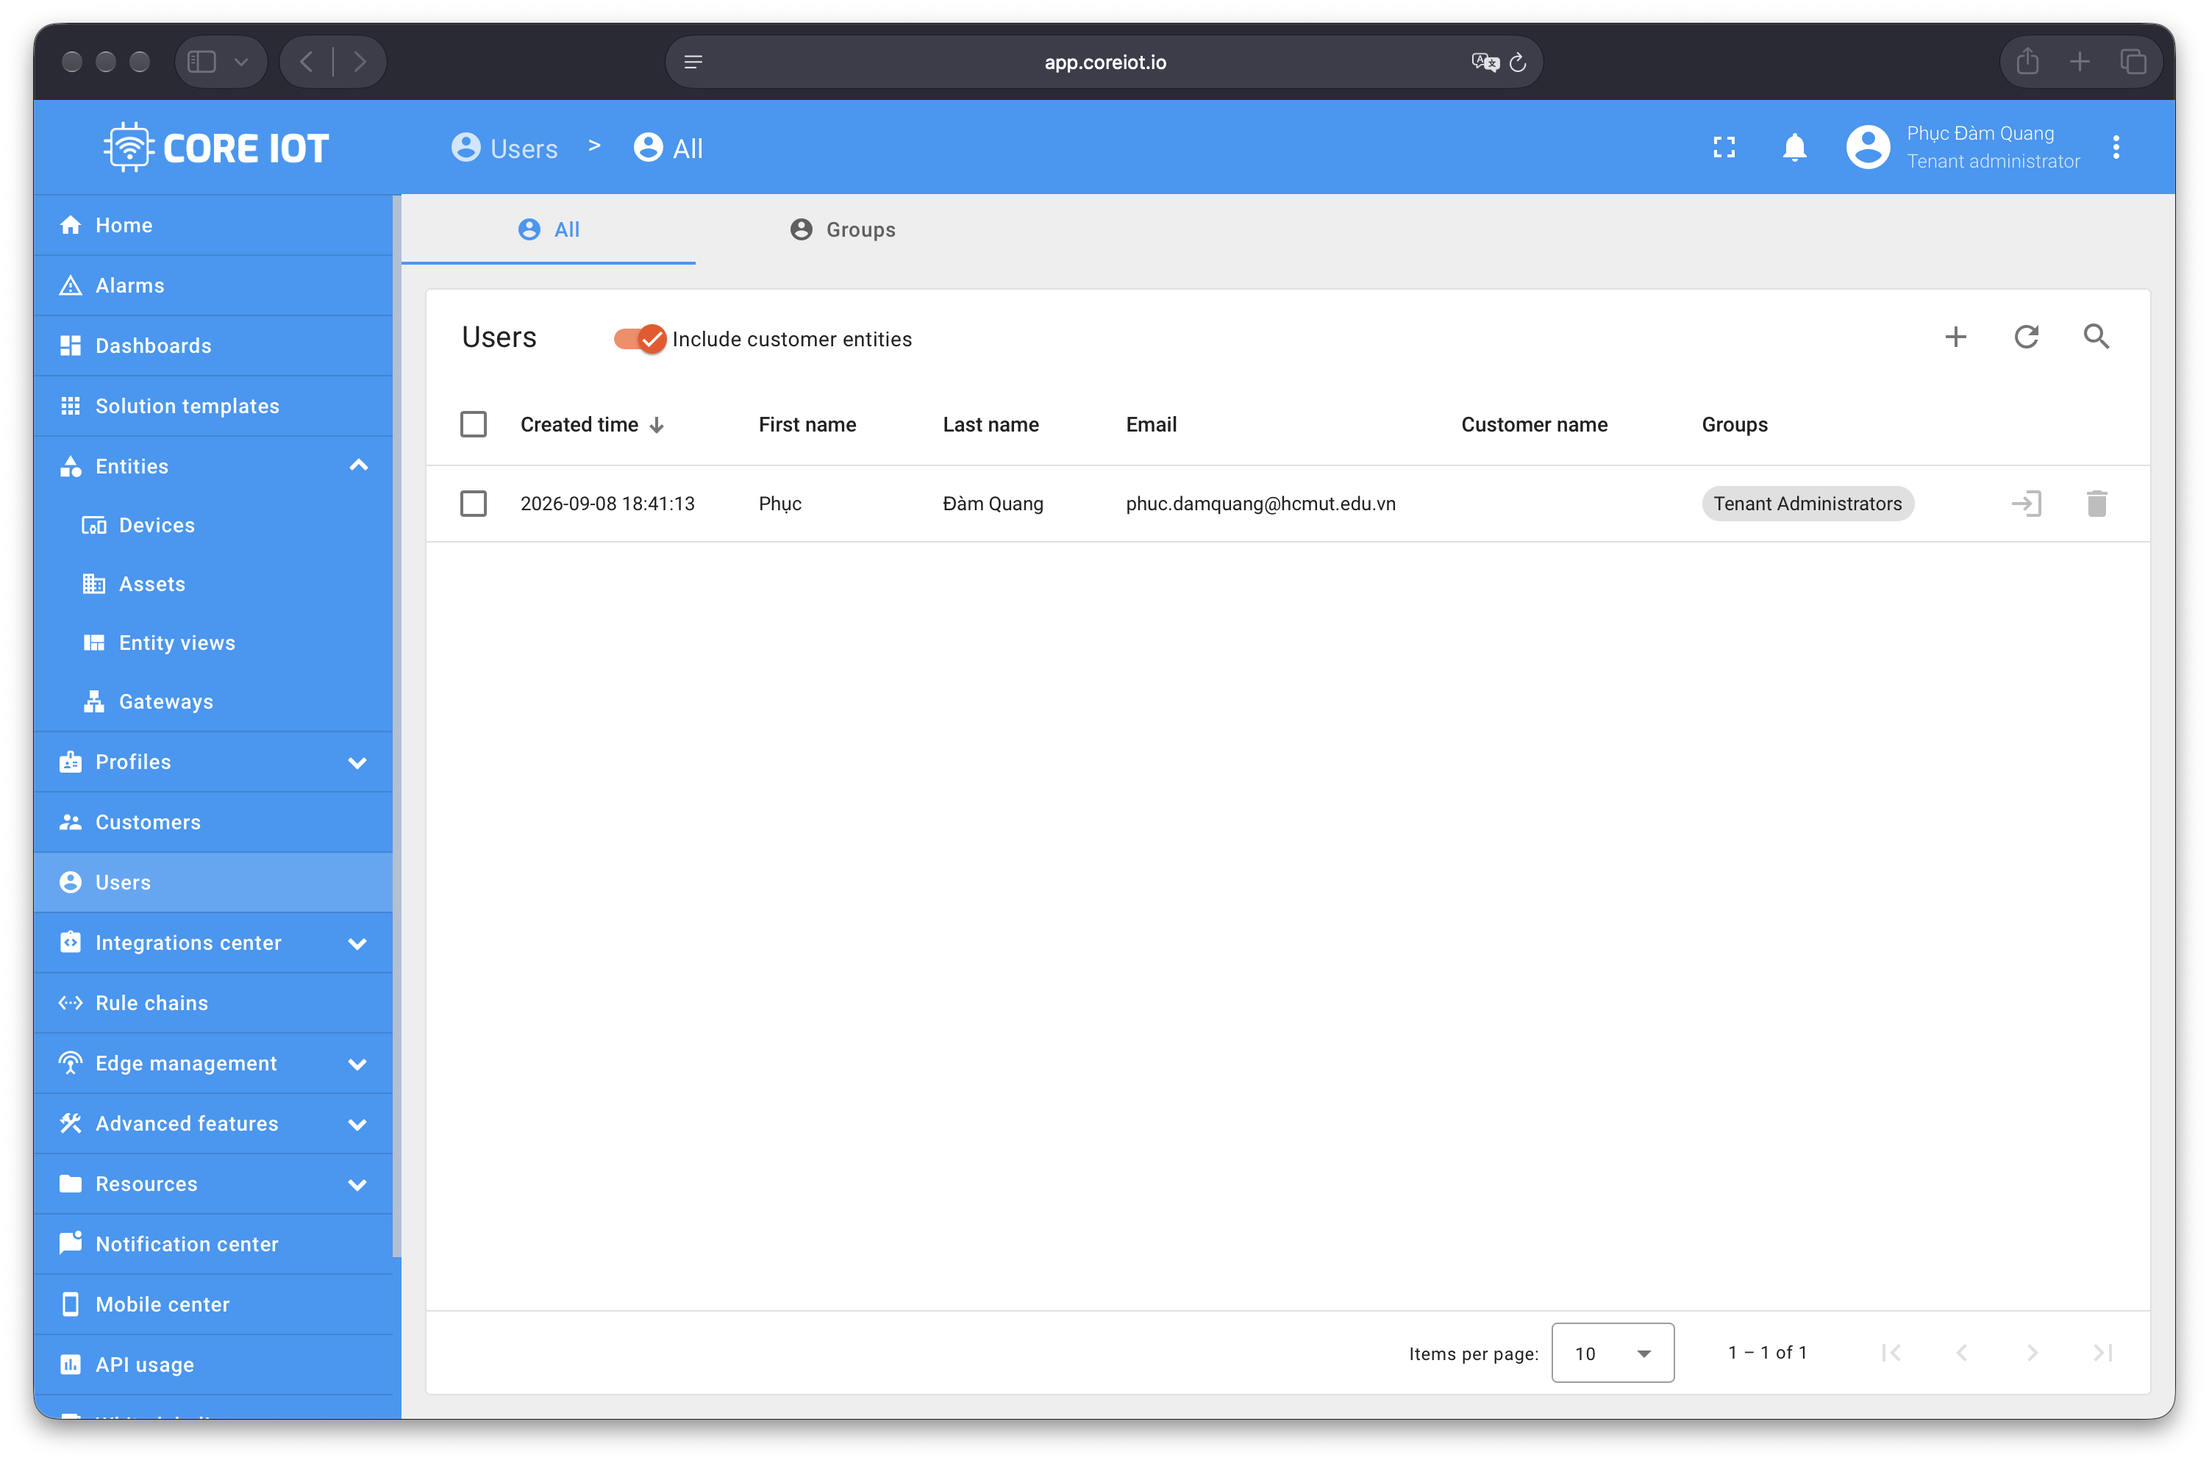
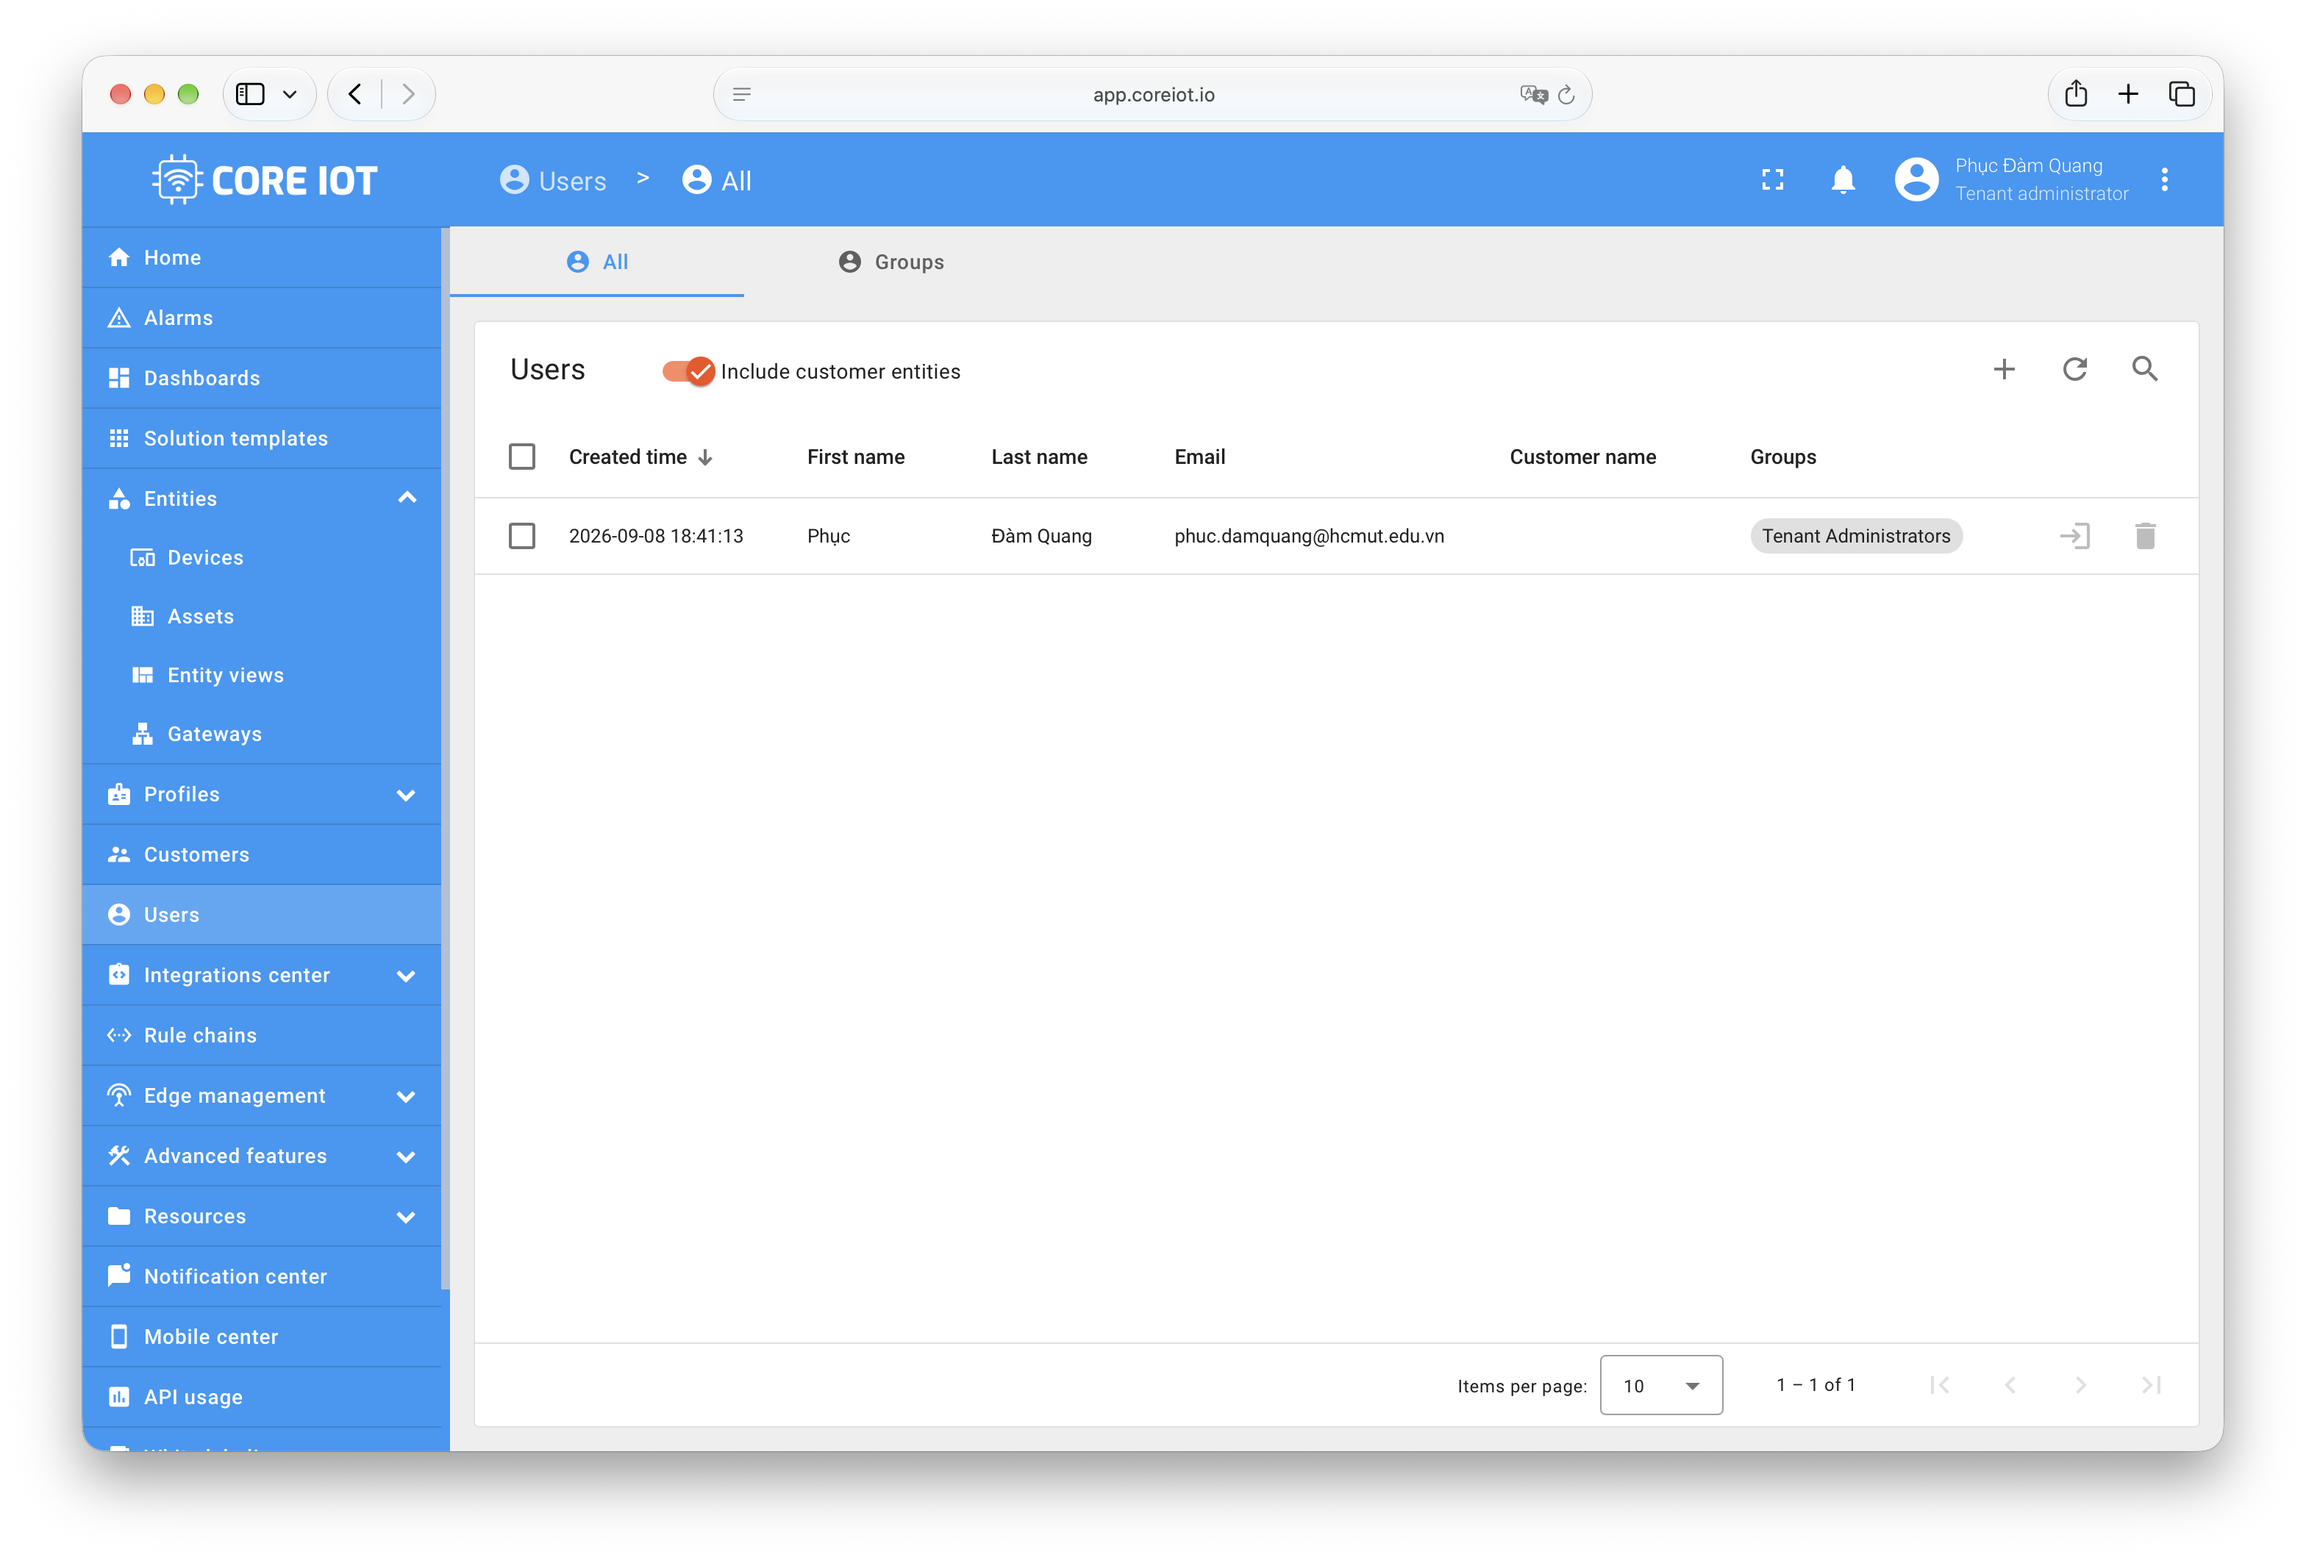
DHT20_01 and DHT20_02

diff --git a/CoreIoT/dht20_01.py b/CoreIoT/dht20_01.py
@@ -1,39 +1,28 @@
-"""
-https://app.coreiot.io
-Entities => Devices (All) => Device details => Manage credentials => MQTT Basic
-Access token: egkdsm5c50w26x6qrtsn
-
-Entities => Devices (Groups)
-Add entity group => Name: Public Devices => Add => Make public
-All: Devices => Select devices => Add to group => Select existing entity group => Public Devices => Add
-
-Entities => Devices (All) => Device details => Latest telemetry
-
-Library: paho-mqtt v1.6.1
-"""
-
 import time
 import json
+import random
 import paho.mqtt.client as mqttclient
 
-BROKER_ADDRESS  = "app.coreiot.io"
-BROKER_PORT     = 1883
-ACCESS_TOKEN    = "egkdsm5c50w26x6qrtsn"
-CLIENT_NAME     = "DHT20_01"
+BROKER_ADDRESS      = "app.coreiot.io"
+BROKER_PORT         = 1883
+ACCESS_TOKEN        = "egkdsm5c50w26x6qrtsn"
+CLIENT_NAME         = "DHT20_01"
+POSITION_LONGITUDE  = 106.65603822544803
+POSITION_LATITUDE   = 10.773708483850378
 
-SUBSCRIBE_TOPIC = "v1/devices/me/rpc/request/+"
-PUBLISH_TOPIC   = "v1/devices/me/telemetry"
+SUBSCRIBE_TOPIC     = "v1/devices/me/rpc/request/+"
+PUBLISH_TELEMETRY   = "v1/devices/me/telemetry"
+PUBLISH_ATTRIBUTE   = "v1/devices/me/attributes"
 
 def on_connect(client, usedata, flags, rc):
     if rc == 0:
-        print("Connect to broker successfully !!!")
-
+        print(f'Connected to broker: {BROKER_ADDRESS}:{BROKER_PORT}')
         client.subscribe(SUBSCRIBE_TOPIC)
     else:
         print(f'Connect to broker failed. Error code: {rc}')
 
 def on_subscribe(client, userdata, mid, granted_qos):
-    print("Subscribe to topic successfully: " + SUBSCRIBE_TOPIC)
+    print("Subscribed to topic: " + SUBSCRIBE_TOPIC)
 
 def on_message(client, userdata, message):
     
@@ -48,7 +37,7 @@ def on_message(client, userdata, message):
             temp_data['value'] = json_obj['params']
 
             print("temp_data: ", temp_data)
-            #client.publish('v1/devices/me/attributes', json.dumps(temp_data), 1)
+            client.publish(PUBLISH_ATTRIBUTE, json.dumps(temp_data), 1)
     except:
         pass
 
@@ -65,16 +54,18 @@ def main():
     client.on_subscribe = on_subscribe
     client.on_message = on_message
 
-    temperature = 0
-    humidity = 10
+    temperature = 25
+    humidity = 50
 
     while True:
 
-        temperature += 1
-        humidity += 1
+        temperature = round(temperature + random.choice([-0.1, 0.1]), 1)
+        humidity    = round(humidity + random.choice([-0.1, 0.1]), 1)
+        print(f'temperature: {temperature} - humidity: {humidity}')
 
-        collect_data = {'temperature': temperature, 'humidity': humidity}
-        client.publish(PUBLISH_TOPIC, json.dumps(collect_data), 1)
+        collect_data = {'temperature': temperature, 'humidity': humidity,
+                        'longitude': POSITION_LONGITUDE, 'latitude': POSITION_LATITUDE}
+        client.publish(PUBLISH_TELEMETRY, json.dumps(collect_data), 1)
 
         time.sleep(2)
 

diff --git a/CoreIoT/dht20_02.py b/CoreIoT/dht20_02.py
@@ -1,0 +1,69 @@
+import time
+import json
+import random
+import paho.mqtt.client as mqttclient
+
+BROKER_ADDRESS  = "app.coreiot.io"
+BROKER_PORT     = 1883
+ACCESS_TOKEN    = "vJXYUO4h5Xrw8bur5ios"
+CLIENT_NAME     = "DHT20_02"
+
+SUBSCRIBE_TOPIC     = "v1/devices/me/rpc/request/+"
+PUBLISH_TELEMETRY   = "v1/devices/me/telemetry"
+
+def on_connect(client, usedata, flags, rc):
+    if rc == 0:
+        print(f'Connected to broker: {BROKER_ADDRESS}:{BROKER_PORT}')
+        client.subscribe(SUBSCRIBE_TOPIC)
+    else:
+        print(f'Connect to broker failed. Error code: {rc}')
+
+def on_subscribe(client, userdata, mid, granted_qos):
+    print("Subscribed to topic: " + SUBSCRIBE_TOPIC)
+
+def on_message(client, userdata, message):
+    
+    print("Received: ", message.payload.decode("utf-8"))
+
+    try:
+        json_obj = json.loads(message.payload)
+
+        if json_obj['method'] == "setValue":
+
+            temp_data = {'value': True}
+            temp_data['value'] = json_obj['params']
+
+            print("temp_data: ", temp_data)
+            #client.publish('v1/devices/me/attributes', json.dumps(temp_data), 1)
+    except:
+        pass
+
+
+def main():
+
+    client = mqttclient.Client(CLIENT_NAME)
+    client.username_pw_set(username = ACCESS_TOKEN, password = None)
+
+    client.on_connect = on_connect
+    client.connect(BROKER_ADDRESS, BROKER_PORT)
+    client.loop_start()
+
+    client.on_subscribe = on_subscribe
+    client.on_message = on_message
+
+    temperature = 25
+    humidity = 50
+
+    while True:
+
+        temperature = round(temperature + random.choice([-0.1, 0.1]), 1)
+        humidity    = round(humidity + random.choice([-0.1, 0.1]), 1)
+        print(f'temperature: {temperature} - humidity: {humidity}')
+
+        collect_data = {'temperature': temperature, 'humidity': humidity}
+        client.publish(PUBLISH_TELEMETRY, json.dumps(collect_data), 1)
+
+        time.sleep(2)
+
+if __name__ == '__main__':
+  main()

diff --git a/CoreIoT/README.md b/CoreIoT/README.md
@@ -1,3 +1,34 @@
+# Devices  
+https://app.coreiot.io  
+Entities => Devices (All) => Device details => Manage credentials => Access token  
+
+Entities => Devices (Groups)  
+Add entity group => Name: Public Devices => Add => Make public  
+All: Devices => Select devices => Add to group => Select existing entity group => Public Devices => Add  
+
+Entities => Devices (All) => Device details => Latest telemetry  
+
+# Dashboards  
+Dashboards => Add dashboard => Create new dashboard => Basic Dashboard => Add  
+
+Add widget => Cards => Simple Value and chart card => Add  
+Datasource
+* Device:     DHT20_01
+* Data key:   temperature  
+
+Add widget => Control widgets => Switch Control => Add
+
+Add widget => Maps => OpenStreet Map => Add
+Data
+* Type:       Device
+* Device:     DHT20_01
+* Data keys:  latitude, longitude
+Appearance
+* Map provider setting: Google maps
+* Latitude key name:    latitude
+* Longitude key name:   longitude
+
+# Chạy chương trình  
 1. Tạo và active môi trường ảo:  
 python -m venv .venv  
 source .venv/bin/activate
@@ -6,8 +37,9 @@ source .venv/bin/activate
 Cmd + Shift + P  
 Python: Select Interpreter
 
-3. Cài đặt các thư viện sử dụng  
+3. Cài đặt các thư viện sử dụng (paho-mqtt v1.6.1)  
 pip install -r requirements.txt
 
 4. Chạy DHT simulator  
-python dht20_01.py
+Terminal 1: python dht20_01.py  
+Terminal 2: python dht20_02.py
